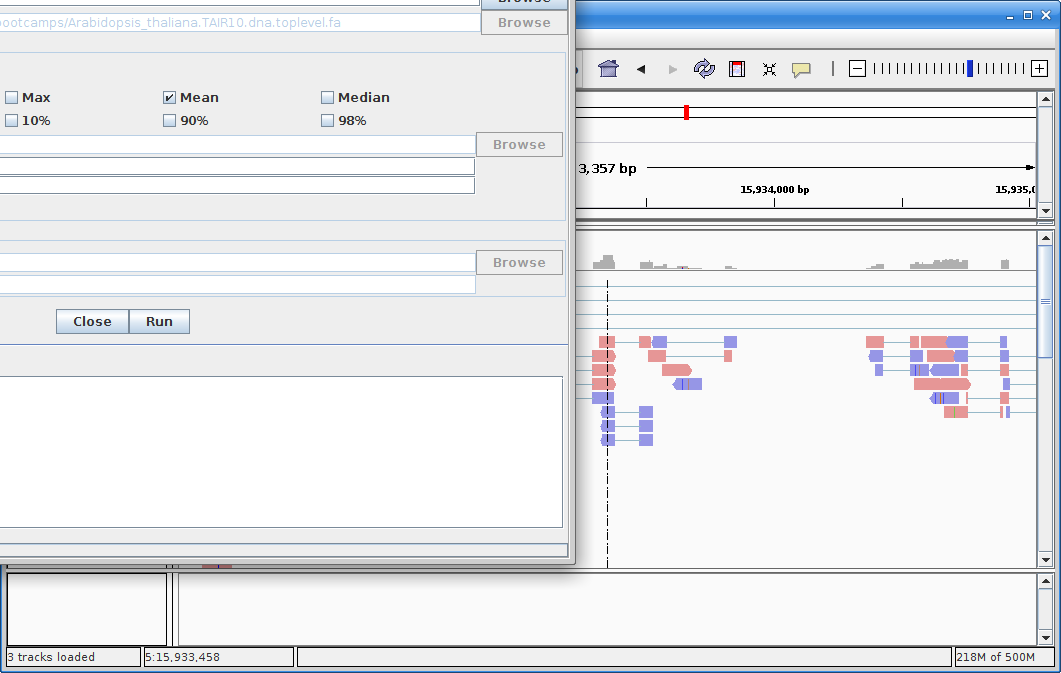
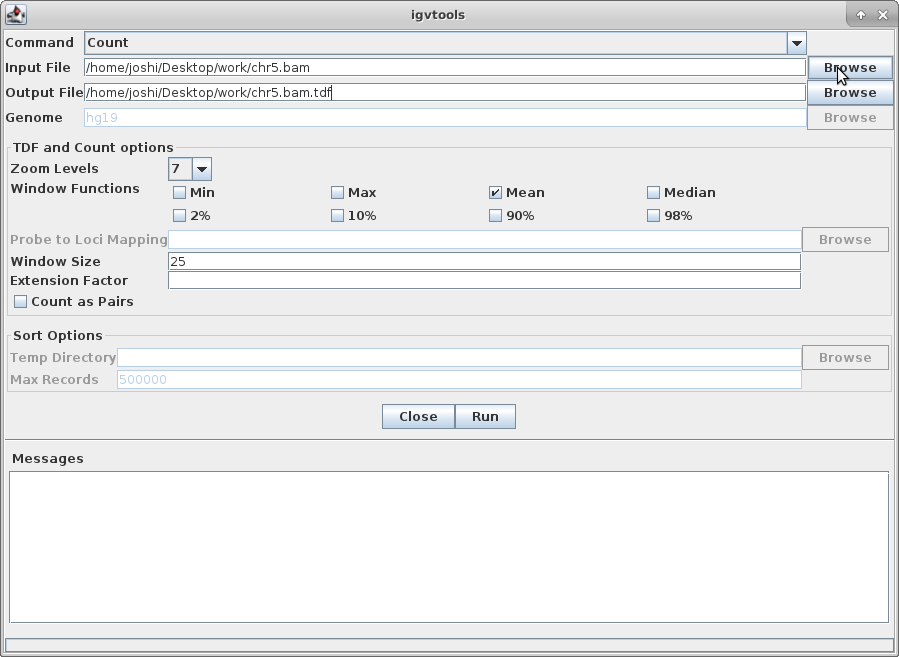
adding align docs

Changed region(s): [[0.0, 0.0, 1.0, 1.0]]

diff --git a/wednesday/alignment.md b/wednesday/alignment.md
@@ -1,5 +1,5 @@
-Alignment to Read Counts
-=========================
+Alignment to Read Counts & Visualization in IGV
+================================================
 
 In this section we will align reads to the genome, view some alignments, and assign counts to genes. **Log into a compute node using srun first! Do not run on the head node!**
 
@@ -94,4 +94,153 @@ For this command, we are giving it the overhang like from the previous step, the
 
 ---
 
-**4\.**
+**4\.** While that is running, let's take a look at an alignment in IGV. We are going to take an already done alignment and cut it down so that it is small enough to download easily. First, let's take just the chromosome 5 portion of the alignment for the I864_S78 sample. We will use 'samtools' for this step, which is a program to manipulate SAM/BAM files. Take a look at the options for samtools and 'samtools view':
+
+    module load samtools
+    samtools
+    samtools view
+
+Now, use the 'samtools view' command to extract just chromosome 5 of an already completed alignment:
+
+    samtools view -b -@ 8 -o chr5.bam /home/class1/rnaseq_example/03-alignment/I864_S78_star_alignment/I864_S78_Aligned.sortedByCoord.out.bam 5
+
+We need to index the new BAM file:
+
+    samtools index chr5.bam
+
+Now, download chr5.bam and chr5.bam.bai (the index file) to your laptop. You will also need to download and uncompress both the Arabidopsis thaliana genome and annotation to your laptop. Just go back to where you got them before and instead of using wget, just download them directly to your laptop. And make sure to uncompress them.
+
+---
+
+**5\.** Now we are ready to use IGV. Go to the [IGV page at the Broad Institute](http://software.broadinstitute.org/software/igv/) and click on Downloads.
+
+![igv1](igv01.png)
+
+Scroll down the page and under "Java Web Start" click on the "Launch" button with 1.2Gb of memory. This will download a ".jnlp" file which will need to be run using Java Web Start (javaws). If you don't have this on your computer, you will need to install it.
+
+![igv2](igv02.png)
+
+---
+
+**6\.** IGV should start up automatically. The first thing we want to do is load our Arabidopsis genome. Click on "Genomes" in the menu and choose "Load Genome from File":
+
+![igv3](igv03.png)
+
+Find your genome file on your laptop and choose that:
+
+![igv4](igv04.png)
+
+---
+
+**7\.** Now let's load the alignment. Click on "File" and choose "Load from File":
+
+![igv5](igv05.png)
+
+Choose your chr5.bam file. Make sure the chr.bam.bai file is in the same directory as the BAM file.
+
+![igv6](igv06.png)
+
+Now your alignment is loaded. Any loaded file aligned to a genome is called a "track".
+
+---
+
+**8\.** Choose chromosome 5 from the chromosome dropdown:
+
+![igv7](igv07.png)
+
+You will need to zoom in to see alignments, so click on the plus sign until you see something. You also may have to move around by clicking and dragging in the BAM track window.
+
+![igv8](igv08.png)
+
+You can also zoom in by clicking and dragging across the number line at the top. That section will highlight, and when you release the button, it will zoom into that section.
+
+![igv9](igv09.png)
+
+---
+
+**9\.** In order to see alignments more easily when zoomed out, we are going to create a coverage track. Click on "Tools" and then choose "Run igvtools".
+
+![igv10](igv10.png)
+
+Choose "Count" as the command, and choose your chr5.bam file as the Input File (the output file path will get created automatically):
+
+![igv11](igv11.png)
+
+Choose a Zoom Level of 10 and then click "Run":
+
+![igv12](igv12.png)
+
+---
+
+**10\.** Once that is done, there will be a chr5.bam.tdf file in the same directory as your bam file. Click on "File" and "Load from File" and choose that file. This will create a coverage track that is visible even at maximum zoom out.
+
+![igv13](igv13.png)
+
+Click on the minus sign in the upper right to zoom out. Zoom out until you are all the way zoomed out. The alignment track will not show anything, but you will be able to see the coverage track which will show you the locations of the alignments.
+
+![igv14](igv14.png)
+
+Zoom in by clicking and dragging across the number line until you get to some alignments. You are looking at a visual representation of the alignment of the reads to the genome. Each of the little boxes in the track represent reads. The reads can be visualized in different ways which we will show you in class.
+
+---
+
+**11\.** The other track we will add to IGV is the annotation for Arabidopsis. In order to do that, we need to first sort the annotation file. Go to igvtools again:
+
+![igv15](igv15.png)
+
+Choose "Sort" as the command and choose the gtf annotation file as the input file. Run it:
+
+![igv15](igv16.png)
+
+![igv15](igv17.png)
+
+--
+
+**12\.** Load the newly created and sorted gtf file:
+
+![igv20](igv20.png)
+
+![igv21](igv21.png)
+
+It will give you a warning about not having an index file. Click "Go" to create one:
+
+![igv22](igv22.png)
+
+---
+
+**13\.** Once the annotation track is loaded, zoom into a gene and you will see that the reads should be aligning with the exons in the genes. This makes sense, since RNA-Seq reads are from exons:
+
+![igv23](igv23.png)
+
+---
+
+**14\.** Ok, let's go back to the command-line. If your STAR job hasn't finished, just open another terminal and log into cabernet. Now we are going to run all of the STAR alignments on the cluster. This is something to run at the end of the day. The first thing to do is to link to our samples.txt file:
+
+    cd ~/rnaseq_example/03-alignment
+    ln -s ../01-Trimming/samples.txt
+
+Next, download a slurm task array file called star.sh:
+
+    wget https://ucdavis-bioinformatics-training.github.io/2017-June-RNA-Seq-Workshop/wednesday/star.sh
+
+This file is not complete. The variables for the reference directory and the GTF annotation file are blank. You need to use nano (the text editor) to add the full paths of the reference directory and the GTF annotation file. Once you do that and save the file, you can move on to the final step.
+
+    nano star.sh
+
+Find the paths you need and add them to the correct spots in the script. You may need to open another terminal. Save the file and exit nano.
+
+---
+
+**15\.** First, take look at the file:
+
+    cat star.sh
+
+It looks very similar to our previous task array file, except we are running STAR, so we are using a few more variables. If everything is set up properly, then all you have to do is use sbatch:
+
+    sbatch star.sh
+
+You will want to use 'squeue' to make sure that your jobs are actually running. If your jobs finish quickly, then something went wrong.
+
+    squeue -u <your username>
+
+And now you wait.

diff --git a/index.md b/index.md
@@ -25,7 +25,7 @@ Wednesday
 
 * Differences Between Aligners
 * [Contamination detection](wednesday/contamination)
-* Aligning Data
+* [Aligning Data and IGV](wednesday/alignment)
 * Tag-Seq vs. RNA-Seq (talk)
 * Alignment to Counts and MDS Plots
 * Bacterial RNA-Seq (talk)
